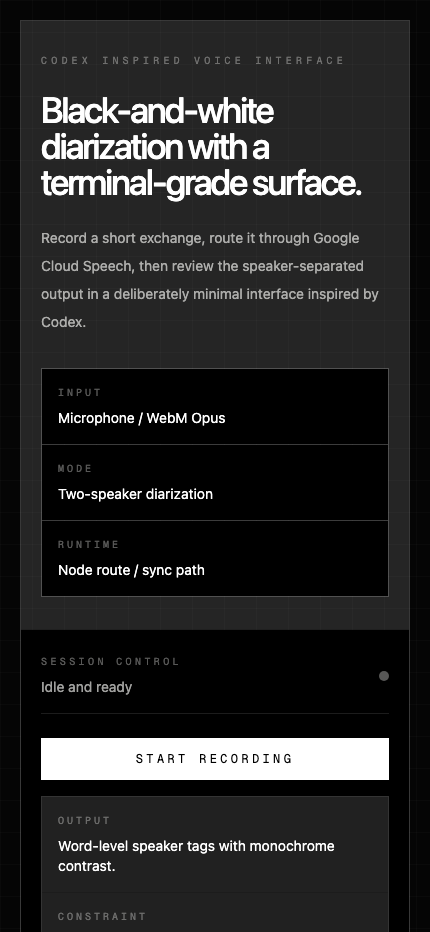
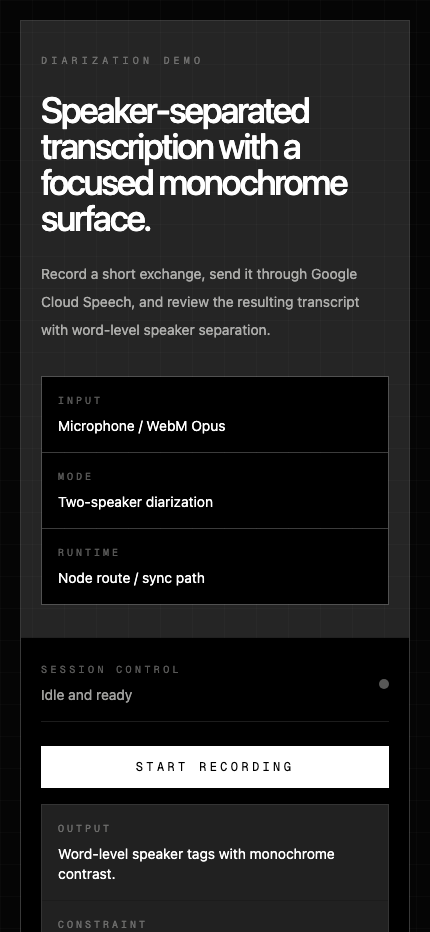
finalize product copy and screenshots

Changed region(s): [[0.0907, 0.0933, 0.907, 0.4667], [0.0302, 0.4979, 0.9674, 0.9957], [0.8767, 0.7157, 0.907, 0.7468]]

diff --git a/src/app/page.tsx b/src/app/page.tsx
@@ -148,15 +148,15 @@ export default function Home() {
         <section className="grid gap-px border border-[var(--app-border)] bg-[var(--app-border)] lg:grid-cols-[1.35fr_0.9fr]">
           <div className="bg-[var(--app-panel)] px-5 py-8 sm:px-8 sm:py-10">
             <p className="font-[family-name:var(--font-geist-mono)] text-[10px] uppercase tracking-[0.42em] text-[var(--app-faint)]">
-              Codex Inspired Voice Interface
+              Diarization Demo
             </p>
             <h1 className="mt-6 max-w-4xl text-4xl font-medium leading-none tracking-[-0.06em] text-white sm:text-6xl">
-              Black-and-white diarization with a terminal-grade surface.
+              Speaker-separated transcription with a focused monochrome surface.
             </h1>
             <p className="mt-6 max-w-2xl text-sm leading-7 text-[var(--app-muted)] sm:text-base">
-              Record a short exchange, route it through Google Cloud Speech,
-              then review the speaker-separated output in a deliberately minimal
-              interface inspired by Codex.
+              Record a short exchange, send it through Google Cloud Speech, and
+              review the resulting transcript with word-level speaker
+              separation.
             </p>
 
             <div className="mt-8 grid gap-px border border-[var(--app-border)] bg-[var(--app-border)] sm:grid-cols-3">
@@ -334,8 +334,7 @@ export default function Home() {
             </p>
             <p className="mt-4 text-sm leading-7 text-[var(--app-muted)]">
               Monochrome contrast, restrained typography, and minimal controls
-              are used to keep the output feeling closer to a tool than a
-              marketing demo.
+              keep the interface clear and focused on the transcript itself.
             </p>
           </div>
 

diff --git a/src/app/layout.tsx b/src/app/layout.tsx
@@ -13,9 +13,9 @@ const geistMono = Geist_Mono({
 });
 
 export const metadata: Metadata = {
-  title: "Google Speech Diarization Demo",
+  title: "Diarization Demo",
   description:
-    "Record audio in the browser and transcribe it with Google Cloud Speech diarization.",
+    "Record audio in the browser and review speaker-separated transcription with Google Cloud Speech.",
 };
 
 export default function RootLayout({

diff --git a/README.md b/README.md
@@ -1,6 +1,6 @@
 # Diarization Demo
 
-A Next.js demo that records browser audio, sends it to Google Cloud Speech-to-Text, and renders a diarized transcript with per-speaker coloring.
+A Next.js application that records browser audio, sends it to Google Cloud Speech-to-Text, and renders a diarized transcript with per-speaker styling.
 
 ## Overview
 
@@ -11,7 +11,7 @@ This project is intentionally narrow in scope:
 - the server calls Google Cloud Speech-to-Text with diarization enabled
 - the UI renders the returned words with speaker-specific colors
 
-The demo is designed for short synchronous transcriptions, not long-running batch jobs.
+The app is designed for short synchronous transcriptions, not long-running batch jobs.
 
 ## Screenshots
 
@@ -128,12 +128,12 @@ Successful response:
 Error behavior:
 
 - `400` for missing or malformed `audioContent`
-- `413` for oversized payloads that exceed the synchronous-demo limit
+- `413` for oversized payloads that exceed the synchronous route limit
 - `500` for transcription failures or credential/runtime issues
 
 ## Operational Notes
 
-- The demo currently requests diarization for two speakers.
+- The current configuration requests diarization for two speakers.
 - The API route is pinned to the Node.js runtime so the Google Cloud client is not deployed to an Edge runtime.
 - Large uploads are rejected so the app stays on a simple synchronous transcription path.
 - Browser support depends on `MediaRecorder` support for `audio/webm`.
@@ -159,7 +159,7 @@ Before deploying:
 
 - provide `GOOGLE_CLOUD_CREDENTIALS` or equivalent ADC configuration
 - ensure the runtime is Node.js, not Edge
-- expect the demo route to be suitable for short audio clips, not large uploads or async batch processing
+- expect the transcription route to be suitable for short audio clips, not large uploads or async batch processing
 
 ## Troubleshooting
 
